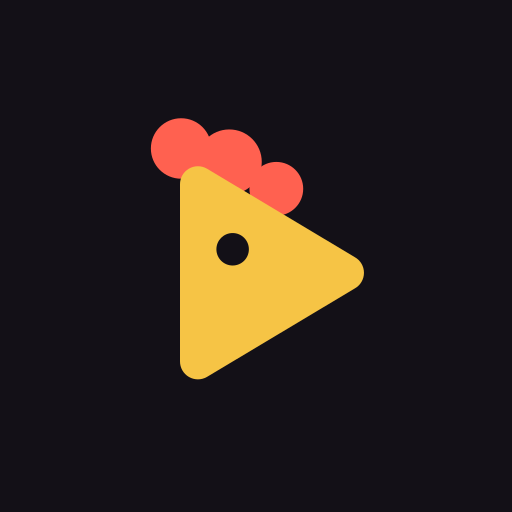
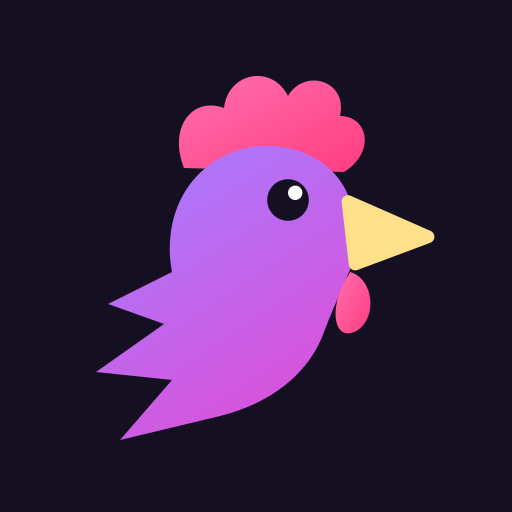
Фиолетовый дизайн и новый логотип-петух
Claude-Session: https://claude.ai/code/session_01PhSUfdtgBCCuz42taHTnes

Changed region(s): [[0.1875, 0.125, 0.8438, 0.875]]

diff --git a/src/styles.css b/src/styles.css
@@ -14,18 +14,22 @@
 
 /* ─── Токены ─────────────────────────────────────────────────── */
 :root {
-  --bg: #131017;
-  --surface: #1b1720;
-  --surface-2: #241f2a;
-  --line: #322c39;
-  --text: #f4efe8;
-  --muted: #a69dae;
-  --faint: #716879;
-  --yolk: #f6c445;
-  --yolk-hover: #ffd35e;
-  --yolk-ink: #1e1706;
-  --comb: #ff6150;
-  --ok: #7fd48c;
+  /* ночь, ультрафиолет и неоновый гребешок */
+  --bg: #0d0a14;
+  --surface: #151020;
+  --surface-2: #1e172d;
+  --line: #2c2340;
+  --text: #f3effb;
+  --muted: #a99ec4;
+  --faint: #6e6489;
+  --yolk: #a07bff;
+  --yolk-hover: #b496ff;
+  --yolk-ink: #ffffff;
+  --grad: linear-gradient(135deg, #8b5cff 0%, #c04dff 100%);
+  --grad-hover: linear-gradient(135deg, #9a70ff 0%, #cc63ff 100%);
+  --glow: 0 10px 30px -10px rgba(150, 90, 255, 0.75);
+  --comb: #ff4f9a;
+  --ok: #7fd8a6;
 
   --sans: 'Onest', system-ui, -apple-system, 'Segoe UI', Roboto, sans-serif;
   --display: 'Unbounded', 'Onest', system-ui, sans-serif;
@@ -85,7 +89,7 @@ button:disabled {
 }
 
 ::selection {
-  background: rgba(246, 196, 69, 0.35);
+  background: rgba(160, 123, 255, 0.4);
 }
 
 .sr-only {
@@ -120,15 +124,20 @@ button:disabled {
   transition: background-color 0.15s, color 0.15s, opacity 0.15s;
 }
 .btn.primary {
-  background: var(--yolk);
+  background: var(--grad);
   color: var(--yolk-ink);
+  box-shadow: var(--glow), inset 0 1px 0 rgba(255, 255, 255, 0.18);
 }
 .btn.primary:hover:not(:disabled) {
-  background: var(--yolk-hover);
+  background: var(--grad-hover);
+}
+.btn.primary:active:not(:disabled) {
+  transform: translateY(1px);
 }
 .btn.primary:disabled {
   background: var(--surface-2);
   color: var(--faint);
+  box-shadow: none;
 }
 .btn.ghost {
   background: var(--surface-2);
@@ -183,6 +192,7 @@ button:disabled {
 }
 .field:focus {
   border-color: var(--yolk);
+  box-shadow: 0 0 0 4px rgba(160, 123, 255, 0.16);
 }
 .field.big {
   height: 56px;
@@ -213,7 +223,7 @@ button:disabled {
   place-items: center;
   border-radius: 50%;
   object-fit: cover;
-  color: #1a1410;
+  color: #160d26;
   font-weight: 700;
   letter-spacing: 0.02em;
   user-select: none;
@@ -258,10 +268,69 @@ button:disabled {
 /* ─── Главная ────────────────────────────────────────────────── */
 .home,
 .gate {
+  position: relative;
+  isolation: isolate;
+  overflow-x: hidden;
   min-height: 100dvh;
   display: flex;
   flex-direction: column;
   padding: 0 clamp(16px, 5vw, 64px);
+}
+/* фиолетовое свечение за главной и входом */
+.home::before,
+.gate::before {
+  content: '';
+  position: absolute;
+  inset: 0;
+  z-index: -1;
+  pointer-events: none;
+  background:
+    radial-gradient(60% 50% at 85% 20%, rgba(150, 90, 255, 0.22), transparent 70%),
+    radial-gradient(40% 40% at 10% 0%, rgba(224, 77, 214, 0.1), transparent 70%);
+}
+/* большой петух — главный герой главной страницы */
+.hero-art {
+  position: absolute;
+  z-index: -1;
+  right: clamp(-80px, -2vw, 0px);
+  top: 90px;
+  width: min(44vw, 560px);
+  aspect-ratio: 1;
+  transform: rotate(-6deg);
+  pointer-events: none;
+  animation: hero-in 0.9s cubic-bezier(0.2, 0.8, 0.2, 1) both;
+}
+.hero-art svg {
+  width: 100%;
+  height: 100%;
+  filter: drop-shadow(0 30px 60px rgba(150, 70, 255, 0.45));
+}
+@keyframes hero-in {
+  from {
+    opacity: 0;
+    transform: rotate(-14deg) translateY(30px) scale(0.92);
+  }
+}
+@media (prefers-reduced-motion: reduce) {
+  .hero-art {
+    animation: none;
+  }
+}
+@media (max-width: 899px) {
+  .hero-art {
+    position: relative;
+    right: auto;
+    top: auto;
+    width: 120px;
+    margin: 18px 0 -8px -10px;
+    transform: rotate(-6deg);
+  }
+  .hero-art + .home-main {
+    padding-top: 20px;
+  }
+  .hero-art svg {
+    filter: drop-shadow(0 14px 28px rgba(150, 70, 255, 0.5));
+  }
 }
 .home-top {
   height: 76px;
@@ -926,13 +995,15 @@ video.player-frame {
   display: grid;
   place-items: center;
   border-radius: var(--r-sm);
-  background: var(--yolk);
+  background: var(--grad);
   color: var(--yolk-ink);
+  box-shadow: 0 6px 18px -6px rgba(150, 90, 255, 0.8);
   transition: opacity 0.15s;
 }
 .send:disabled {
   background: var(--surface-2);
   color: var(--faint);
+  box-shadow: none;
 }
 
 /* зрители */
@@ -1345,7 +1416,7 @@ kbd {
   max-width: 120px;
   padding: 1px 8px;
   border-radius: 999px;
-  background: rgba(19, 16, 23, 0.78);
+  background: rgba(13, 10, 20, 0.78);
   color: var(--text);
   font-size: 11px;
   font-weight: 600;
@@ -1406,7 +1477,7 @@ kbd {
   gap: 2px;
   padding: 4px;
   border-radius: 999px;
-  background: rgba(19, 16, 23, 0.72);
+  background: rgba(13, 10, 20, 0.72);
   backdrop-filter: blur(8px);
   opacity: 0.35;
   transition: opacity 0.2s;

diff --git a/src/components/ui.tsx b/src/components/ui.tsx
@@ -132,17 +132,35 @@ export function Icon({ name, size = 18 }: { name: IconName; size?: number }) {
 }
 
 /** Знак: голова петуха, она же кнопка «плей». */
-export function Mark({ size = 28 }: { size?: number }) {
+export function Mark({ size = 30, bare = false }: { size?: number; bare?: boolean }) {
+  const id = React.useId().replace(/:/g, '');
   return (
-    <svg width={size} height={size} viewBox="0 0 32 32" aria-hidden="true" className="mark">
-      <circle cx="9.6" cy="6.4" r="2.7" fill="var(--comb)" />
-      <circle cx="13.9" cy="7.6" r="2.9" fill="var(--comb)" />
-      <circle cx="18.1" cy="10" r="2.4" fill="var(--comb)" />
-      <path
-        d="M9.5 9.6v15.8a1.6 1.6 0 0 0 2.4 1.4l13.2-7.9a1.6 1.6 0 0 0 0-2.8L11.9 8.2a1.6 1.6 0 0 0-2.4 1.4z"
-        fill="var(--yolk)"
-      />
-      <circle cx="14.2" cy="15.4" r="1.45" fill="var(--bg)" />
+    <svg width={size} height={size} viewBox="0 0 64 64" aria-hidden="true" className={bare ? 'mark bare' : 'mark'}>
+      <defs>
+        <linearGradient id={`${id}b`} x1="0.2" y1="0" x2="0.8" y2="1">
+          <stop offset="0" stopColor="#a77bff" />
+          <stop offset="1" stopColor="#e04dd6" />
+        </linearGradient>
+        <linearGradient id={`${id}c`} x1="0" y1="0" x2="1" y2="1">
+          <stop offset="0" stopColor="#ff6fb0" />
+          <stop offset="1" stopColor="#ff3d7f" />
+        </linearGradient>
+      </defs>
+      {!bare && <rect width="64" height="64" rx="18" fill="#1a1229" />}
+      <g transform="translate(1 2)">
+        <path
+          d="M22 19C20 14 23 10 27 11.5c.5-4.5 6-5.5 8-1.5 2-3.5 7.5-2 6.5 2.5 3.5 0 4.5 4.5.5 7Z"
+          fill={`url(#${id}c)`}
+        />
+        <path
+          d="M43 24c-1.5-7-10-9.5-16-6.5s-7.5 9.5-6.5 14.5l-8 4 7 2.5-8.5 6 9.5 1-6.5 7.5 12.5-3c6-1.5 11-5 13-10.5 1.5-4 3.5-8 4.5-11Z"
+          fill={`url(#${id}b)`}
+        />
+        <path d="M42.5 23.2l10 4.4-9.1 3.4Z" fill="#ffe08a" stroke="#ffe08a" strokeWidth="1.6" strokeLinejoin="round" />
+        <path d="M42.8 32c3.2 1 3.4 6.5.2 7.6-2.4.7-3-3.6-.2-7.6Z" fill={`url(#${id}c)`} />
+        <circle cx="35" cy="23" r="2.6" fill="#1a1229" />
+        <circle cx="35.9" cy="22.1" r="0.9" fill="#fff" />
+      </g>
     </svg>
   );
 }

diff --git a/src/components/Home.tsx b/src/components/Home.tsx
@@ -3,7 +3,7 @@ import { looksLikeLink, parseSource } from '../../shared/sources';
 import { loadRecent, type UserProfile } from '../lib/user';
 import { copyText, makeRoomCode, roomUrl, timeAgo } from '../lib/util';
 import { InstallButton } from './Extras';
-import { Avatar, Icon, Logo, toast } from './ui';
+import { Avatar, Icon, Logo, Mark, toast } from './ui';
 
 /** Открытые фильмы для пробы: можно сразу проверить синхронизацию с другом. */
 const DEMOS = [
@@ -55,6 +55,9 @@ export function Home({ user, onGo, onOpenProfile }: Props) {
         </div>
       </header>
 
+      <div className="hero-art" aria-hidden="true">
+        <Mark bare size={520} />
+      </div>
       <main className="home-main">
         <h1 className="hero">
           Смотрите кино вместе, где&nbsp;бы вы ни&nbsp;были

diff --git a/index.html b/index.html
@@ -3,7 +3,7 @@
   <head>
     <meta charset="UTF-8" />
     <meta name="viewport" content="width=device-width, initial-scale=1, viewport-fit=cover" />
-    <meta name="theme-color" content="#131017" />
+    <meta name="theme-color" content="#0d0a14" />
     <meta name="description" content="Смотрите VK Видео, YouTube и Rutube вместе с друзьями: общая пауза, перемотка и чат." />
     <title>Petuh Party — смотрите видео вместе</title>
     <link rel="icon" href="/favicon.svg" type="image/svg+xml" />

diff --git a/src/lib/user.ts b/src/lib/user.ts
@@ -9,7 +9,7 @@ export interface UserProfile {
 
 const KEY = 'pp.profile.v2';
 
-export const AVATAR_COLORS = ['#f6c445', '#ff7a59', '#7bd389', '#6cc4ff', '#c79bff', '#ff8fc7', '#e8e2d6'];
+export const AVATAR_COLORS = ['#b794ff', '#ff86c2', '#7fd8b6', '#78c6ff', '#ffc078', '#e3a6ff', '#dcd5ec'];
 
 const ADJ = ['Сонный', 'Бодрый', 'Тихий', 'Хитрый', 'Ранний', 'Смелый', 'Важный', 'Добрый'];
 const NOUN = ['петух', 'цыплёнок', 'кочет', 'гусь', 'индюк', 'селезень', 'фазан'];
